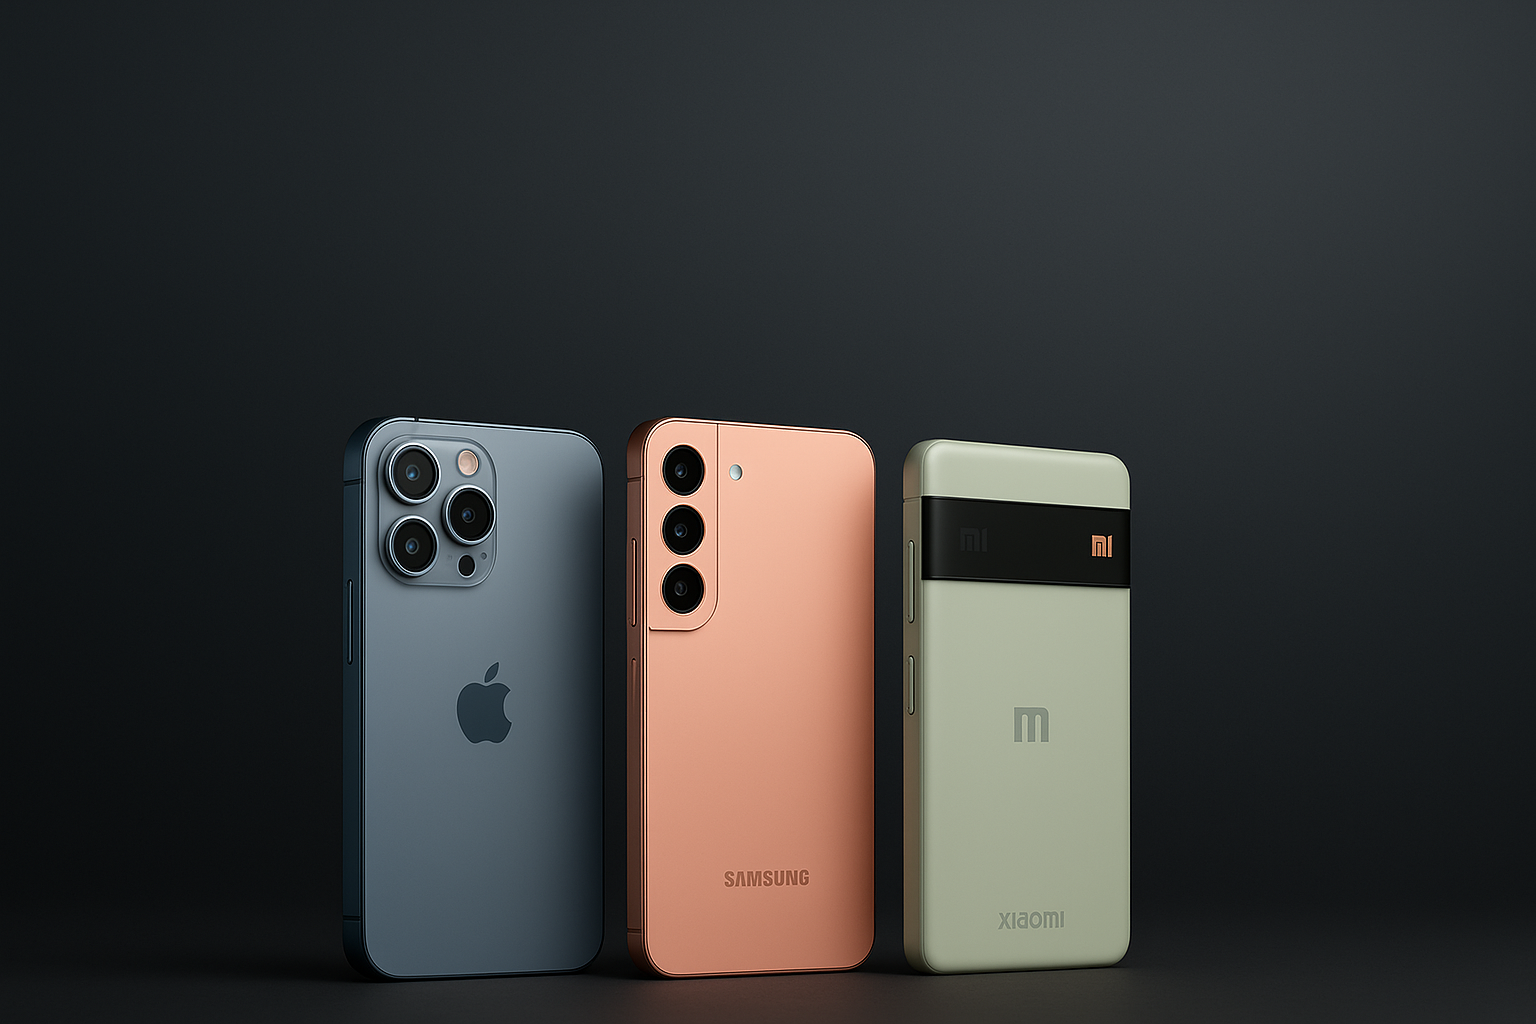
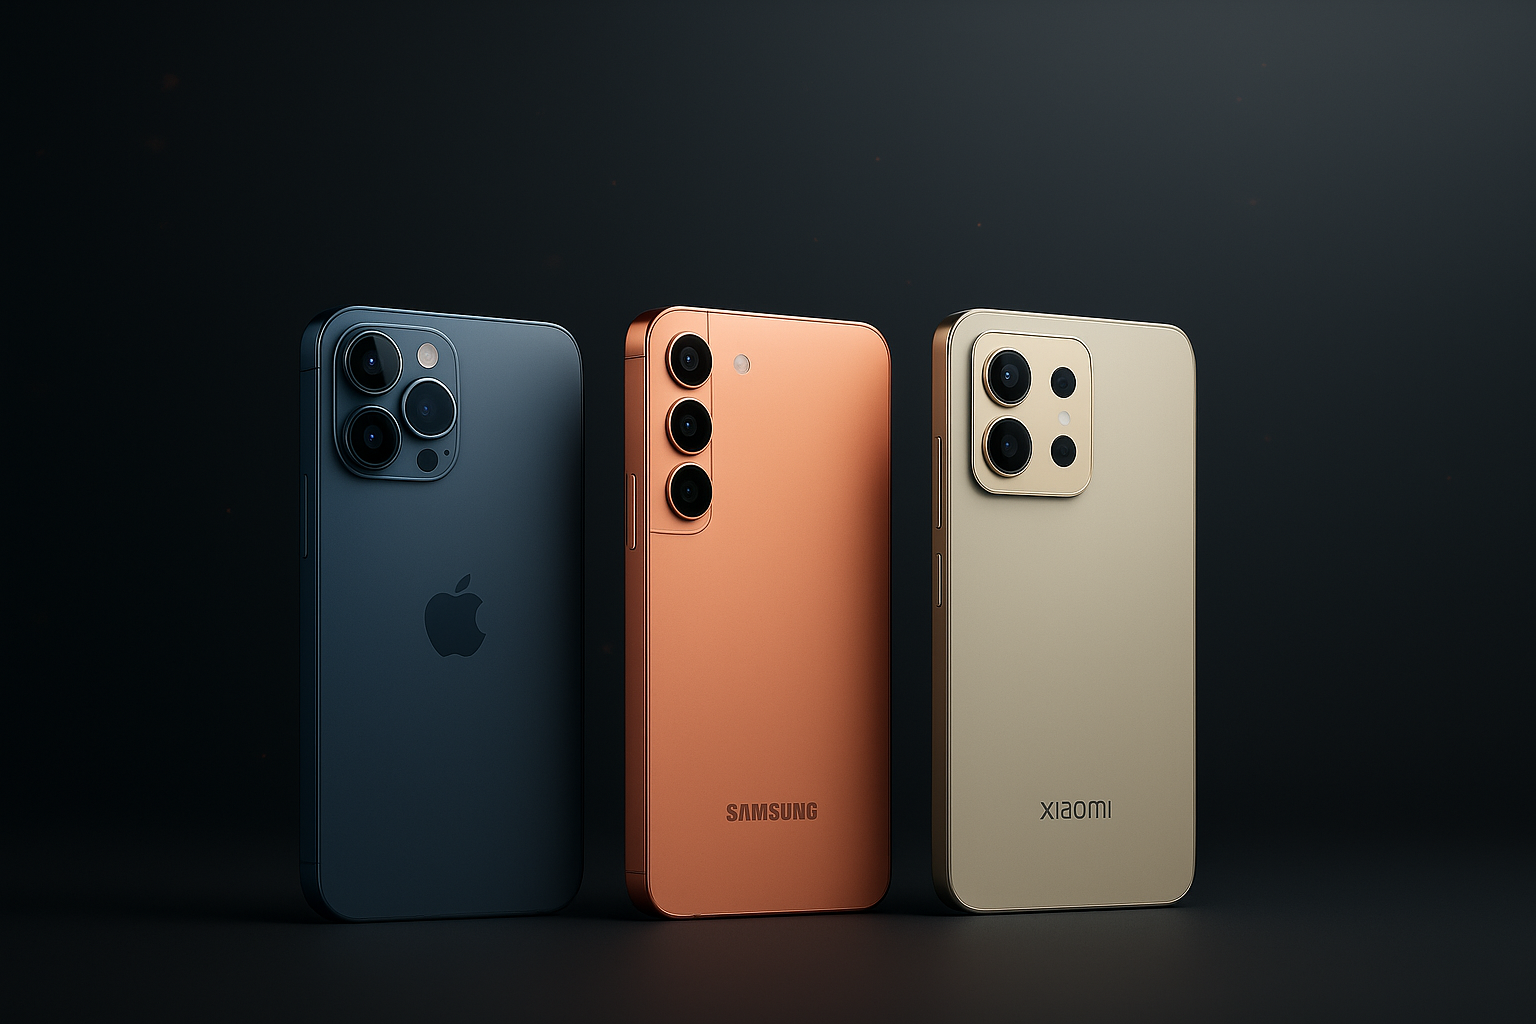
NPC-60: added images on mainslider

diff --git a/src/pages/HomePage/components/MainSlider/MainSlider.tsx b/src/pages/HomePage/components/MainSlider/MainSlider.tsx
@@ -6,9 +6,9 @@ import { Link } from 'react-router-dom';
 
 const slides = [
   { src: '/img/main-banner-phones.png', link: '/phones' },
-  { src: '/img/main-banner-phones.png', link: '/phones' },
-  { src: '/img/main-banner-phones.png', link: '/tablets' },
-  { src: '/img/main-banner-phones.png', link: '/accessories' },
+  { src: '/img/banner-phones.png', link: '/phones' },
+  { src: '/img/banner-tablets.png', link: '/tablets' },
+  { src: '/img/banner-accessories.png', link: '/accessories' },
 ];
 
 type Props = {
